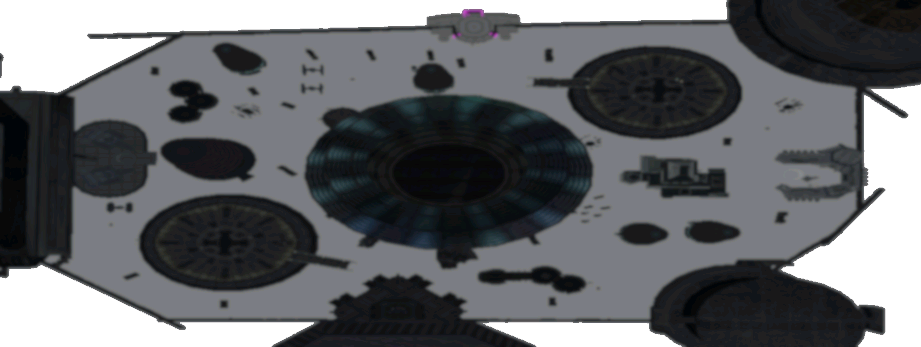
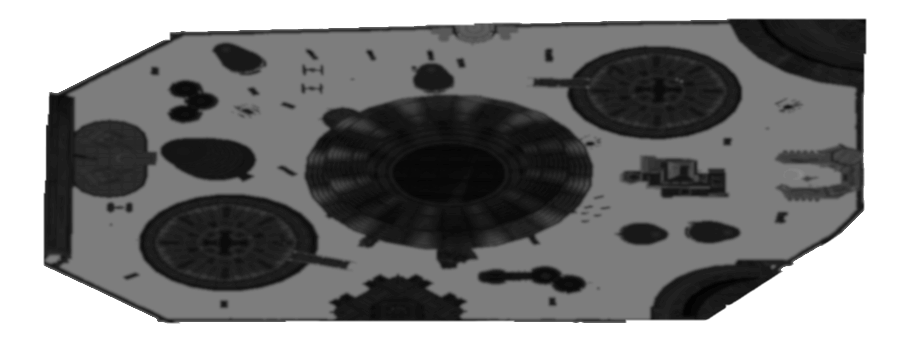
add pngs with transparent backgrouns, autohide minimaps, and make dots bigger

diff --git a/ObjMonitor/ObjForm.cs b/ObjMonitor/ObjForm.cs
@@ -50,24 +50,24 @@ namespace ObjMonitor
 
             map_to_image_file["tat2"] = ".\\minimaps_trimmed\\tat2_trimmed.png";
             map_to_image_file["c0r"] = ".\\minimaps_trimmed\\C0R_trimmed.png";
-            map_to_image_file["ti2"] = ".\\minimaps_trimmed\\tan_trimmed_transparent.png";
-            map_to_image_file["tan1"] = ".\\minimaps_trimmed\\tan_trimmed_transparent.png";
+            map_to_image_file["ti2"] = ".\\minimaps_trimmed\\tan_trimmed.png";
+            map_to_image_file["tan1"] = ".\\minimaps_trimmed\\tan_trimmed.png";
             map_to_image_file["mus1"] = ".\\minimaps_trimmed\\mus1_trimmed.png";
             map_to_image_file["tat3"] = ".\\minimaps_trimmed\\tat3_trimmed.png";
-            map_to_image_file["kek"] = ".\\minimaps_trimmed\\KEK_trimmed_grayscale.png";
+            map_to_image_file["kek"] = ".\\minimaps_trimmed\\KEK_trimmed.png";
             map_to_image_file["dg2"] = ".\\minimaps_trimmed\\dag1_trimmed.png";
             map_to_image_file["ed9"] = ".\\minimaps_trimmed\\ed9_trimmed.png";
-            map_to_image_file["rvn"] = ".\\minimaps_trimmed\\Rhn1_trimmed2.png";
-            map_to_image_file["rvc"] = ".\\minimaps_trimmed\\Rhn2_trimmed_grayscale.png";
-            map_to_image_file["uta1"] = ".\\minimaps_trimmed\\uta1_trimmed2.png";
+            map_to_image_file["rvn"] = ".\\minimaps_trimmed\\Rhn1_trimmed.png";
+            map_to_image_file["rvc"] = ".\\minimaps_trimmed\\Rhn2_trimmed.png";
+            map_to_image_file["uta1"] = ".\\minimaps_trimmed\\uta1_trimmed.png";
             // You can quickly find these coordinates in freecam mode.
             // The ymin and ymax listed below correspond to the zmin and ymin from the game because the game uses xz-coordinates.
-            map_to_xminmax_yminmax["tat2"] = Tuple.Create(-137.59, 139.11, -103.86, 94.15);
+            map_to_xminmax_yminmax["tat2"] = Tuple.Create(-145.59, 143.11, -115.86, 96.0);
             map_to_xminmax_yminmax["c0r"] = Tuple.Create(-68.06, 111.82, -184.14, 36.38);
             map_to_xminmax_yminmax["ti2"] = Tuple.Create(-385.19, -210.20, 67.09, 203.39);
             map_to_xminmax_yminmax["tan1"] = Tuple.Create(-385.19, -210.20, 67.09, 203.39);
             map_to_xminmax_yminmax["mus1"] = Tuple.Create(-106.4, 143.0, -59.0, 152.0);
-            map_to_xminmax_yminmax["tat3"] = Tuple.Create(-127.7, 4.9, 50.1, 196.9);
+            map_to_xminmax_yminmax["tat3"] = Tuple.Create(-128.5, 5.5, 50.1, 197.5);
             map_to_xminmax_yminmax["kek"] = Tuple.Create(-180.0, 135.9, 64.24, 288.3);
             map_to_xminmax_yminmax["dg2"] = Tuple.Create(-75.6, 148.11, -167.1, 188.9);
             map_to_xminmax_yminmax["rvn"] = Tuple.Create(108.0, 305.85, 270.0, 460.1);
@@ -119,6 +119,13 @@ namespace ObjMonitor
                 lvGameInfo.Items.Add(li);
             }
             lvGameInfo.EndUpdate();
+        }
+
+        public void ClearMap()
+        {
+            Console.WriteLine($"Clearing map.");
+            ChartArea ca_map = chart_map.ChartAreas.FindByName("chartarea_minimap");
+            ca_map.BackImage = "";
         }
 
         public void SetMap(string map)
@@ -194,7 +201,6 @@ namespace ObjMonitor
                     //player_dot.LabelForeColor = Color.Green;
                     //chart_map.Series[0].IsValueShownAsLabel = true;
                     //player_dot.LabelBorderWidth = 5;
-                    //Console.WriteLine($"player = {obj.Name}");
                     //player_dot.IsValueShownAsLabel = true;
                     chart_map.Series[0].Points.Add(player_dot);
                 }
@@ -301,6 +307,7 @@ namespace ObjMonitor
                 {
                     var player_dot = new DataPoint(obj.EntitySoldier.X * current_xdir, obj.EntitySoldier.Z * current_ydir);
                     chart_map.Series[1].Points.Add(player_dot);
+
                 }
 
                 var li = new ListViewItem();

diff --git a/ObjMonitor/Program.cs b/ObjMonitor/Program.cs
@@ -93,10 +93,11 @@ namespace ObjMonitor
                 form.UpdateTeam2ObjList(charList.Team2, savePlayerData, player_sw);
                 form.UpdateGameInfo(teamObjList);
                 form.UpdateCommandPosts(objList.CommandPosts, teamObjList[0], teamObjList[1]);
-                if (String.IsNullOrEmpty(map)) // If the map isn't being read properly, let the caster decide
+                if (String.IsNullOrEmpty(map) && endgame == 0) // If the map isn't being read properly, let the caster decide
                 {
                     form.SetMap(map);
                 }
+                Console.WriteLine($"endgame = {endgame}");
                 Application.DoEvents();
                 if (form.cbTrackStats.Checked)
                 {
@@ -107,6 +108,7 @@ namespace ObjMonitor
                     if (endgame != 0) // Detects endgame if value is not 0
                     {
                         detectedEndgame = true;
+                        form.ClearMap();
                     }
                     Boolean mapStartDetected = !String.IsNullOrEmpty(map) && (
                         (map != oldMap) // map change. Only checking endgame isn't enough because if someone join the server after starting this program, there will not have been an endgame

diff --git a/ObjMonitor/ObjForm.Designer.cs b/ObjMonitor/ObjForm.Designer.cs
@@ -278,7 +278,7 @@ namespace ObjMonitor
             series1.IsValueShownAsLabel = true;
             series1.MarkerBorderColor = System.Drawing.Color.Black;
             series1.MarkerColor = System.Drawing.Color.Chocolate;
-            series1.MarkerSize = 8;
+            series1.MarkerSize = 12;
             series1.MarkerStyle = System.Windows.Forms.DataVisualization.Charting.MarkerStyle.Circle;
             series1.Name = "Team1";
             series2.ChartArea = "chartarea_minimap";
@@ -286,7 +286,7 @@ namespace ObjMonitor
             series2.IsValueShownAsLabel = true;
             series2.MarkerBorderColor = System.Drawing.Color.Black;
             series2.MarkerColor = System.Drawing.Color.LightBlue;
-            series2.MarkerSize = 8;
+            series2.MarkerSize = 12;
             series2.MarkerStyle = System.Windows.Forms.DataVisualization.Charting.MarkerStyle.Circle;
             series2.Name = "Team2";
             this.chart_map.Series.Add(series1);
